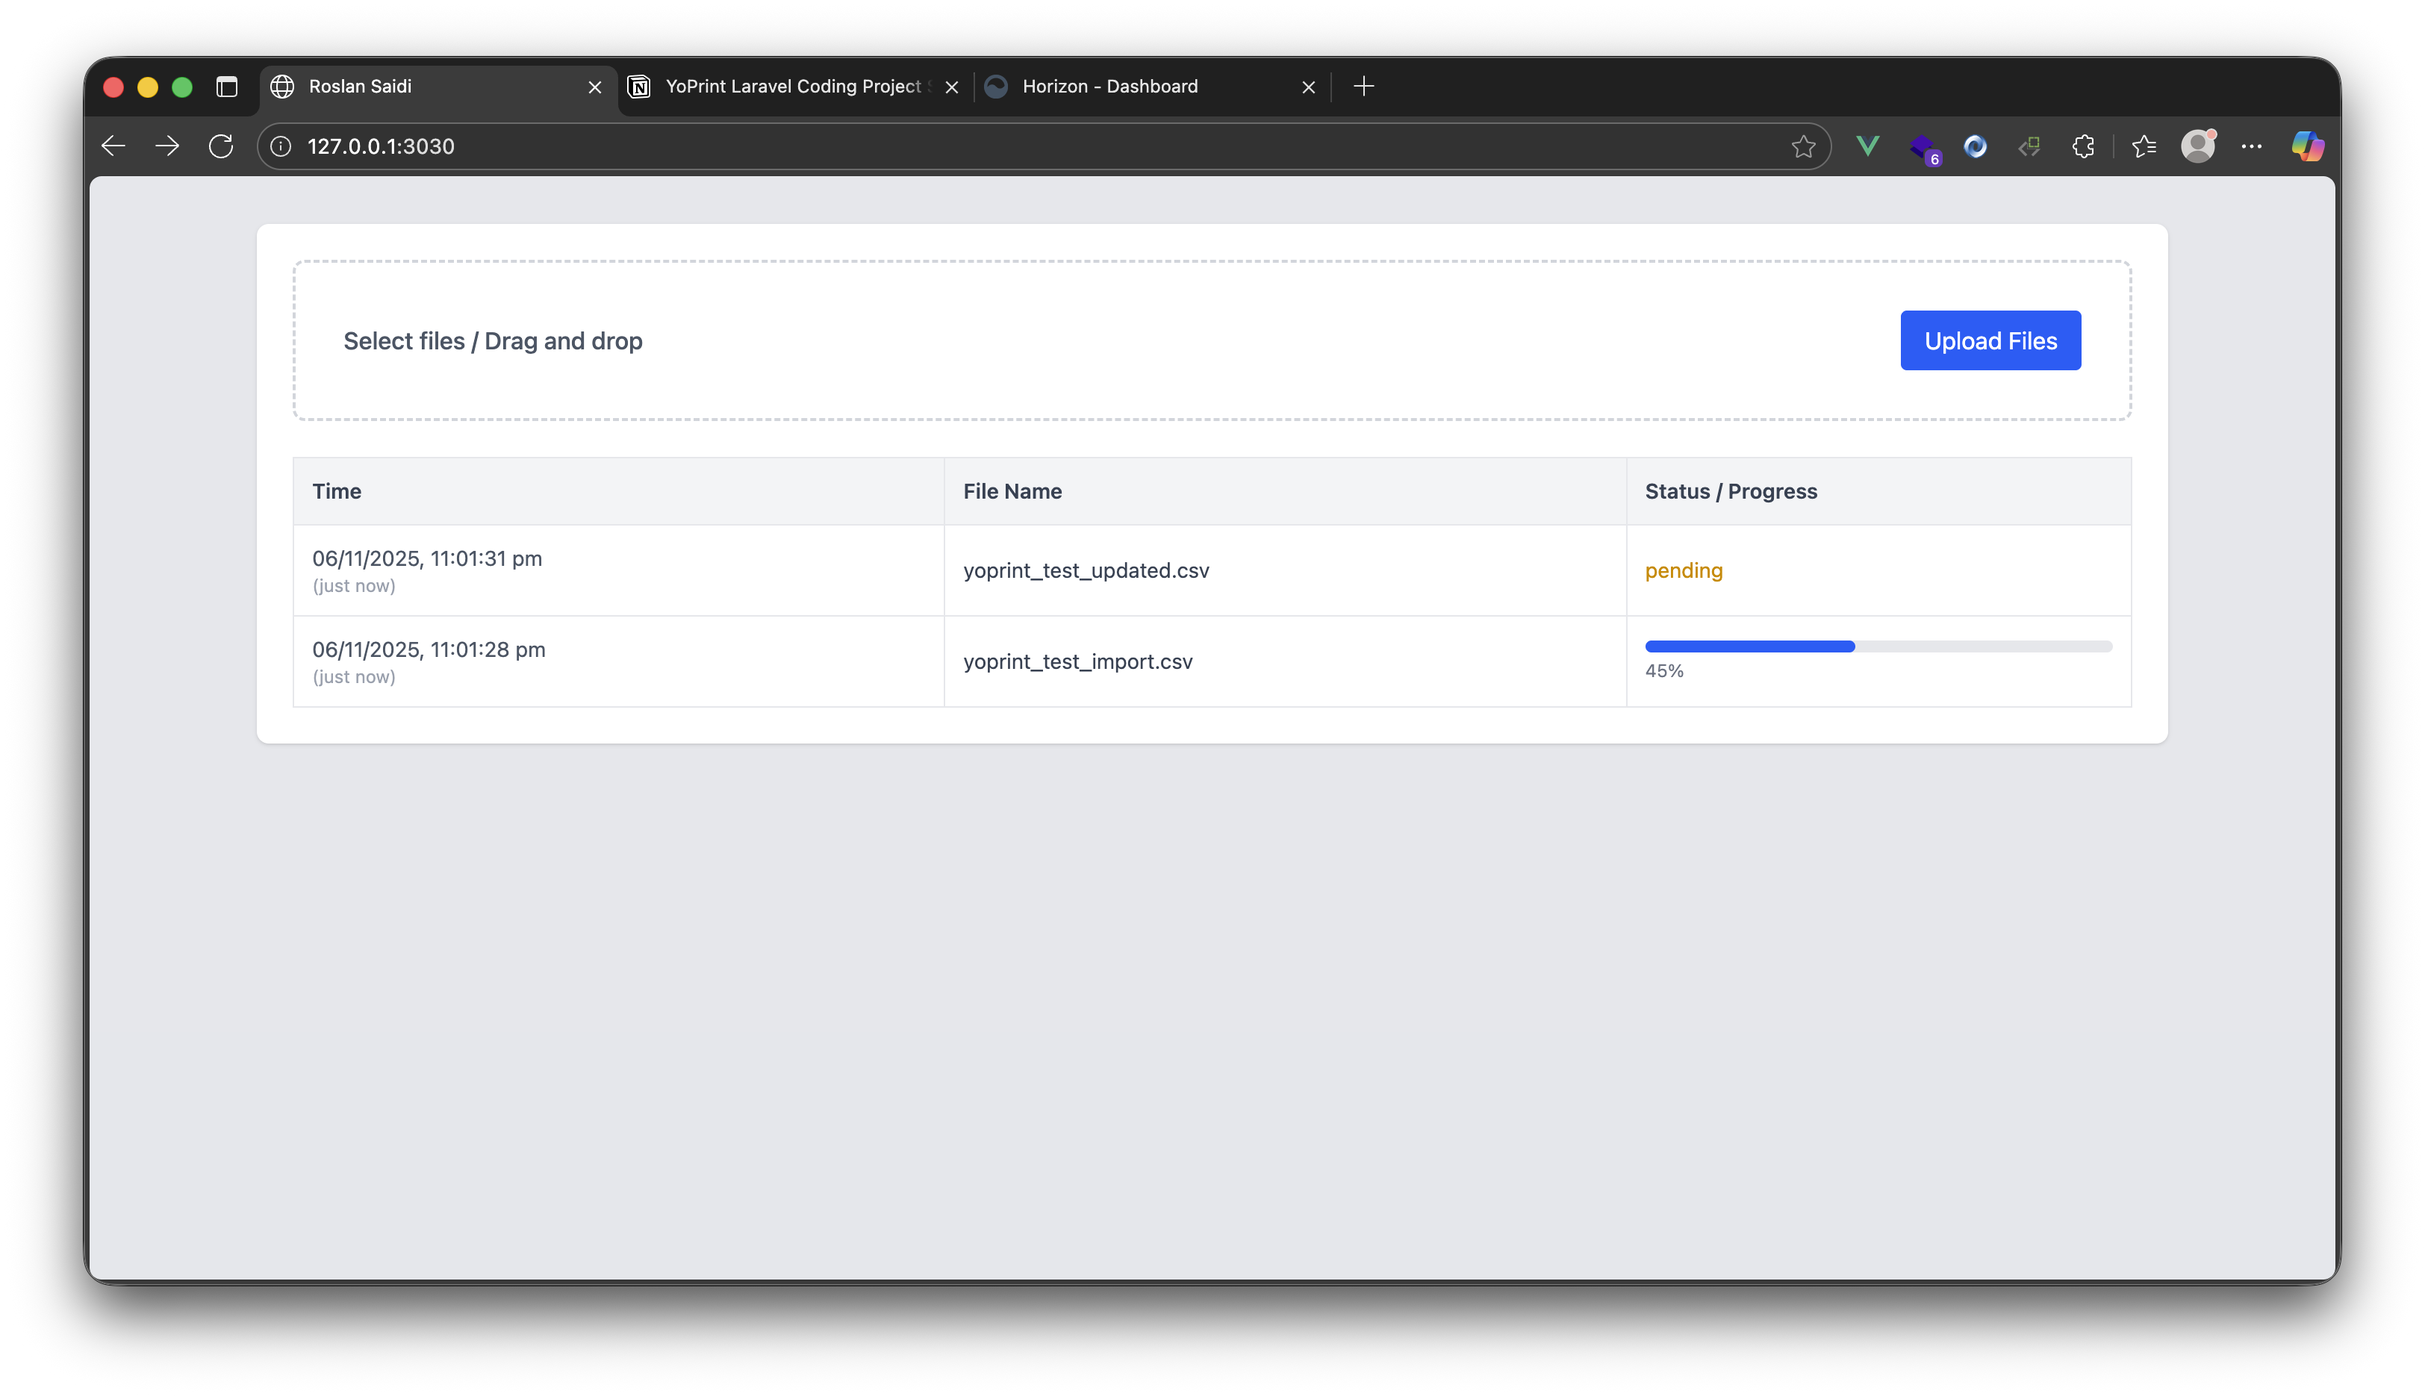
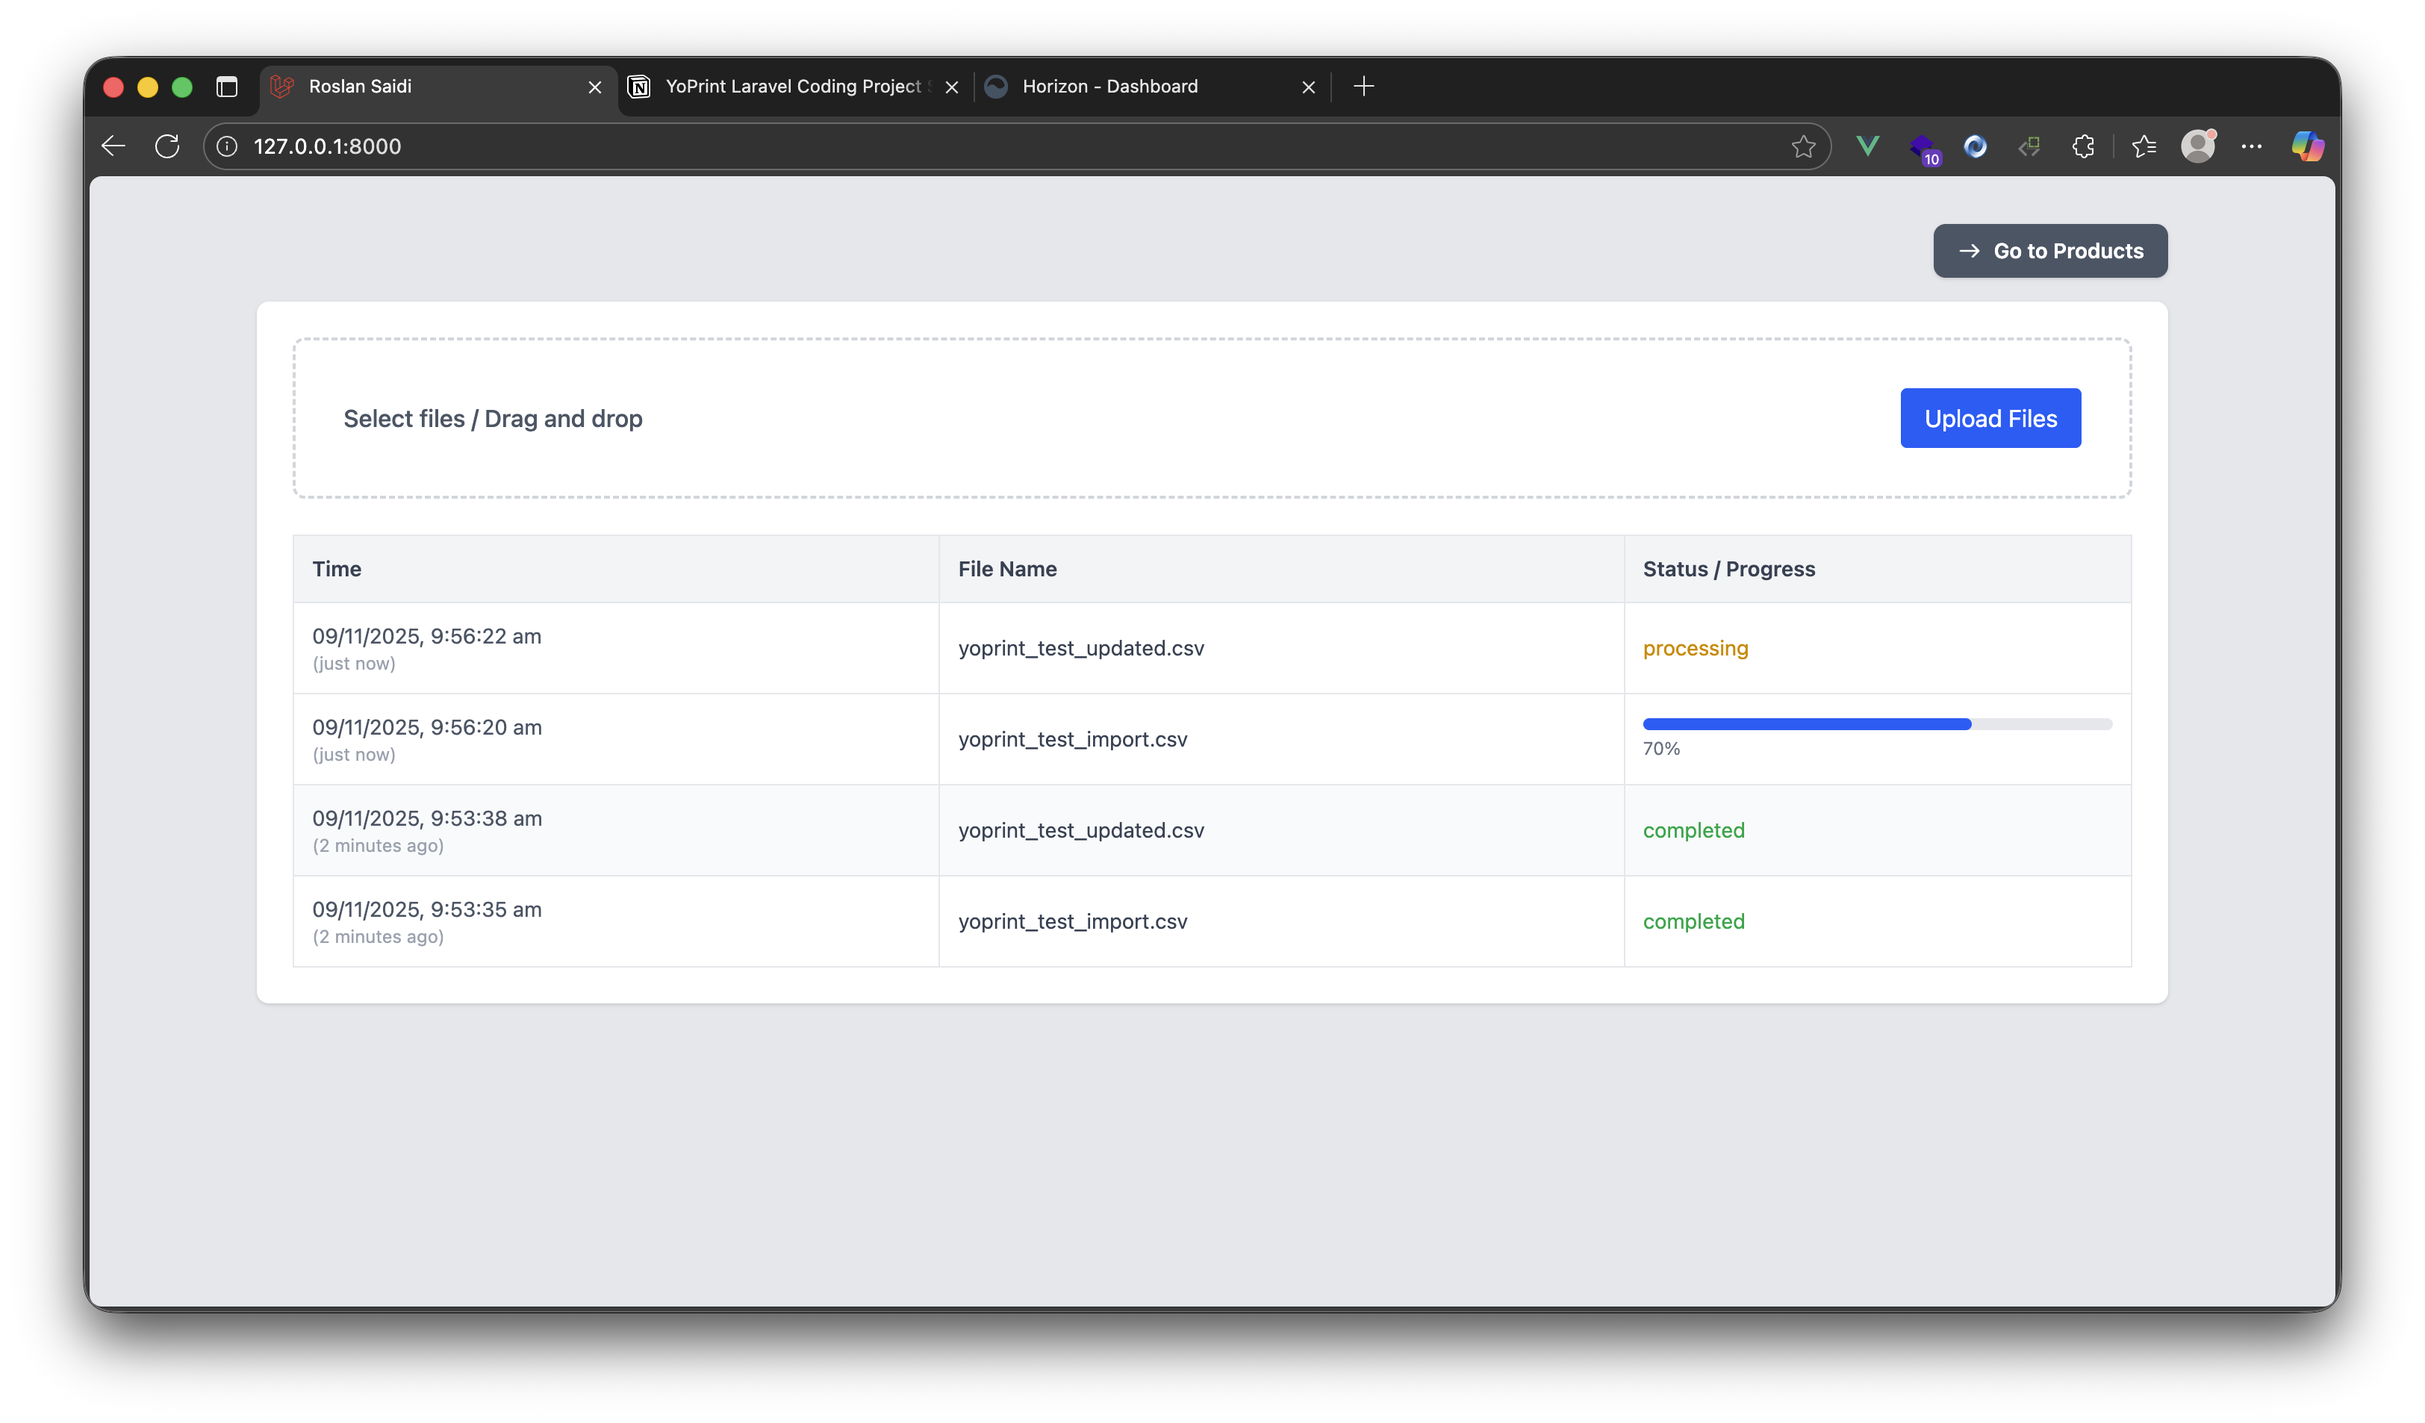
Add clear products and update image docs

diff --git a/resources/js/components/Products.vue b/resources/js/components/Products.vue
@@ -1,18 +1,34 @@
 <template>
       <div class="bg-white rounded-lg shadow p-6">
+            <!-- Header -->
             <div class="flex items-center justify-between mb-4">
                   <h2 class="text-lg font-semibold text-gray-800">Product List</h2>
-                  <div class="flex gap-3">
-                        <input v-model="store.search" @keyup.enter="store.fetch(1)" type="text"
+
+                  <div class="flex gap-3 items-center">
+                        <input v-model="productStore.search" @keyup.enter="productStore.fetch(1)" type="text"
                               placeholder="Search product..."
                               class="border border-gray-200 rounded px-3 py-1.5 text-sm focus:ring focus:ring-blue-200 focus:outline-none" />
-                        <button @click="store.fetch(1)"
+
+                        <button @click="productStore.fetch(1)"
                               class="bg-blue-600 text-white text-sm px-3 py-1.5 rounded hover:bg-blue-700">
                               Search
+                        </button>
+
+                        <button @click="clearSearch" :disabled="productStore.loading || !productStore.search"
+                              class="bg-gray-200 text-gray-700 text-sm px-3 py-1.5 rounded hover:bg-gray-300 disabled:opacity-50">
+                              Clear Search
+                        </button>
+
+                        <span class="h-6 border-l border-gray-300 mx-2"></span>
+
+                        <button @click="openModal" :disabled="productStore.loading || productStore.list.length === 0"
+                              class="bg-red-600 text-white text-sm px-3 py-1.5 rounded hover:bg-red-700 disabled:opacity-50">
+                              Clear All Products
                         </button>
                   </div>
             </div>
 
+            <!-- Table -->
             <div class="overflow-x-auto">
                   <table class="min-w-full border-collapse border border-gray-200 text-sm">
                         <thead class="bg-gray-100">
@@ -38,15 +54,15 @@
                               </tr>
                         </thead>
                         <tbody>
-                              <tr v-for="(item, i) in store.list" :key="item.id" class="hover:bg-gray-50">
+                              <tr v-for="(item, i) in productStore.list" :key="item.id" class="hover:bg-gray-50">
                                     <td class="border border-gray-200 p-3 text-sm text-gray-600">
-                                          {{ i + 1 + (store.pagination.current_page - 1) * store.pagination.per_page }}
+                                          {{ i + 1 + (productStore.pagination.current_page - 1) *
+                                          productStore.pagination.per_page }}
                                     </td>
                                     <td class="border border-gray-200 p-3 text-sm text-gray-600">{{ item.unique_key }}
                                     </td>
-                                    <td class="border border-gray-200 p-3 text-sm text-gray-600">
-                                          {{ decodeHtml(item.title) }}
-                                    </td>
+                                    <td class="border border-gray-200 p-3 text-sm text-gray-600">{{
+                                          decodeHtml(item.title) }}</td>
                                     <td class="border border-gray-200 p-3 text-sm text-gray-600">{{ item.color_name ||
                                           '-' }}</td>
                                     <td class="border border-gray-200 p-3 text-sm text-gray-600">{{ item.size || '-' }}
@@ -56,7 +72,7 @@
                                     </td>
                               </tr>
 
-                              <tr v-if="!store.loading && store.list.length === 0">
+                              <tr v-if="!productStore.loading && productStore.list.length === 0">
                                     <td colspan="6" class="text-center p-4 text-gray-400">No data found</td>
                               </tr>
                         </tbody>
@@ -64,37 +80,73 @@
             </div>
 
             <div class="flex items-center justify-between mt-4 text-sm text-gray-600">
-                  <div>Showing {{ store.pagination.current_page }} / {{ store.pagination.last_page }} pages</div>
+                  <div>Showing {{ productStore.pagination.current_page }} / {{ productStore.pagination.last_page }}
+                        pages</div>
                   <div class="flex gap-1">
-                        <button @click="store.fetch(store.pagination.current_page - 1)"
-                              :disabled="store.pagination.current_page <= 1 || store.loading"
+                        <button @click="productStore.fetch(productStore.pagination.current_page - 1)"
+                              :disabled="productStore.pagination.current_page <= 1 || productStore.loading"
                               class="px-3 py-1 border border-gray-200 rounded disabled:opacity-40 hover:bg-gray-100">
                               Prev
                         </button>
-                        <button @click="store.fetch(store.pagination.current_page + 1)"
-                              :disabled="store.pagination.current_page >= store.pagination.last_page || store.loading"
+                        <button @click="productStore.fetch(productStore.pagination.current_page + 1)"
+                              :disabled="productStore.pagination.current_page >= productStore.pagination.last_page || productStore.loading"
                               class="px-3 py-1 border border-gray-200 rounded disabled:opacity-40 hover:bg-gray-100">
                               Next
                         </button>
+                  </div>
+            </div>
+
+            <div v-if="showModal"
+                  class="fixed inset-0 backdrop-blur-sm bg-white/30 flex items-center justify-center z-50">
+                  <div class="bg-white border border-gray-200 rounded-lg shadow-lg w-96 p-6">
+                        <h3 class="text-lg font-semibold text-gray-800 mb-3">Confirm Deletion</h3>
+                        <p class="text-gray-600 text-sm mb-6">
+                              Are you sure you want to <span class="font-semibold text-red-600">delete all
+                                    products</span>?
+                              This action cannot be undone.
+                        </p>
+                        <div class="flex justify-end gap-3">
+                              <button @click="closeModal"
+                                    class="px-4 py-2 text-sm bg-gray-200 rounded hover:bg-gray-300">
+                                    Cancel
+                              </button>
+                              <button @click="confirmClear" :disabled="productStore.loading"
+                                    class="px-4 py-2 text-sm bg-red-600 text-white rounded hover:bg-red-700 disabled:opacity-50">
+                                    {{ productStore.loading ? 'Deleting...' : 'Confirm' }}
+                              </button>
+                        </div>
                   </div>
             </div>
       </div>
 </template>
 
 <script setup>
-import { onMounted } from 'vue'
-import { useProductStore } from '@/stores/product'
+import { ref, onMounted } from "vue";
+import { useProductStore } from "@/stores/product";
 
-const store = useProductStore()
+const productStore = useProductStore();
+const showModal = ref(false);
 
-onMounted(() => store.fetch())
+onMounted(() => productStore.fetch());
 
-const formatPrice = (p) => (p != null ? `$${Number(p).toFixed(2)}` : '-')
+const openModal = () => (showModal.value = true);
+const closeModal = () => (showModal.value = false);
 
+const clearSearch = () => {
+      productStore.search = "";
+      productStore.fetch(1);
+};
+
+const confirmClear = async () => {
+      await productStore.clearAll();
+      closeModal();
+};
+
+const formatPrice = (p) => (p != null ? `$${Number(p).toFixed(2)}` : "-");
 const decodeHtml = (text) => {
-      if (!text) return ''
-      const el = document.createElement('textarea')
-      el.innerHTML = text
-      return el.value
-}
+      if (!text) return "";
+      const el = document.createElement("textarea");
+      el.innerHTML = text;
+      return el.value;
+};
 </script>

diff --git a/resources/js/stores/product.js b/resources/js/stores/product.js
@@ -13,7 +13,6 @@ export const useProductStore = defineStore("products", {
         search: "",
         loading: false,
     }),
-
     actions: {
         async fetch(page = 1) {
             this.loading = true;
@@ -25,10 +24,8 @@ export const useProductStore = defineStore("products", {
                         search: this.search || "",
                     },
                 });
-
                 const response = res.data;
                 this.list = response.data || [];
-
                 const meta = response.meta || {};
                 this.pagination = {
                     current_page: meta.current_page ?? page,
@@ -38,6 +35,16 @@ export const useProductStore = defineStore("products", {
                         (response.data ? response.data.length : 0),
                     last_page: meta.last_page ?? 1,
                 };
+            } finally {
+                this.loading = false;
+            }
+        },
+        async clearAll() {
+            this.loading = true;
+            try {
+                await api.delete("/products/clear");
+                this.list = [];
+                this.pagination.total = 0;
             } finally {
                 this.loading = false;
             }

diff --git a/resources/js/components/Upload.vue b/resources/js/components/Upload.vue
@@ -92,8 +92,8 @@ import { storeToRefs } from "pinia";
 const isDragging = ref(false);
 const dragCount = ref(0);
 const fileInput = ref(null);
-const store = useUploadStore();
-const { list: uploads, progress } = storeToRefs(store);
+const uploadStore = useUploadStore();
+const { list: uploads, progress } = storeToRefs(uploadStore);
 const error = ref("");
 const loading = ref(false);
 
@@ -155,7 +155,7 @@ const handleFile = async (file) => {
             return;
       }
       try {
-            await store.uploadFile(file);
+            await uploadStore.uploadFile(file);
       } catch (err) {
             console.error(err);
             error.value = "Upload failed. Please try again.";
@@ -177,9 +177,9 @@ const timeAgo = (datetime) => {
 };
 
 onMounted(async () => {
-      await store.fetchUploads();
-      await store.hydrateProgress();
-      store.ensureRealtime();
+      await uploadStore.fetchUploads();
+      await uploadStore.hydrateProgress();
+      uploadStore.ensureRealtime();
 });
 </script>
 

diff --git a/resources/views/uploads.blade.php b/resources/views/uploads.blade.php
@@ -1,5 +1,16 @@
 @extends('layouts.app')
 
 @section('content')
+    <div class="flex justify-end mb-4">
+        <a href="/products"
+           class="inline-flex items-center px-4 py-2 bg-gray-600 hover:bg-gray-700 text-white text-sm font-semibold rounded-lg shadow transition duration-150">
+            <svg xmlns="http://www.w3.org/2000/svg" class="h-4 w-4 mr-2" fill="none" viewBox="0 0 24 24"
+                 stroke="currentColor" stroke-width="2">
+                <path stroke-linecap="round" stroke-linejoin="round" d="M3 12h18m-6 6l6-6-6-6" />
+            </svg>
+            Go to Products
+        </a>
+    </div>
+
     <upload></upload>
 @endsection

diff --git a/resources/views/products.blade.php b/resources/views/products.blade.php
@@ -1,5 +1,16 @@
 @extends('layouts.app')
 
 @section('content')
+    <div class="flex justify-start mb-4">
+        <a href="/"
+           class="inline-flex items-center px-4 py-2 bg-gray-100 hover:bg-gray-200 text-gray-700 text-sm font-semibold rounded-lg shadow transition duration-150">
+            <svg xmlns="http://www.w3.org/2000/svg" class="h-4 w-4 mr-2" fill="none" viewBox="0 0 24 24"
+                 stroke="currentColor" stroke-width="2">
+                <path stroke-linecap="round" stroke-linejoin="round" d="M15 19l-7-7 7-7" />
+            </svg>
+            Back to Upload
+        </a>
+    </div>
+
     <products></products>
 @endsection

diff --git a/app/Http/Controllers/ProductController.php b/app/Http/Controllers/ProductController.php
@@ -1,7 +1,9 @@
 <?php
+
 namespace App\Http\Controllers;
 
 use Illuminate\Http\Request;
+use Illuminate\Http\JsonResponse;
 use App\Http\Resources\ProductResource;
 use App\Contracts\ProductRepositoryContract;
 
@@ -17,5 +19,14 @@ class ProductController extends Controller
         $result = $this->products->paginate($search, $perPage);
 
         return ProductResource::collection($result);
+    }
+
+    public function clearAll(): JsonResponse
+    {
+        $this->products->clearAll();
+
+        return response()->json([
+            'message' => 'All products have been deleted.'
+       ]);
     }
 }

diff --git a/routes/api.php b/routes/api.php
@@ -7,3 +7,4 @@ Route::post('/uploads', [UploadController::class, 'store']);
 Route::get('/uploads/{id}/progress', [UploadController::class, 'progress']);
 
 Route::get('/products', [ProductController::class, 'index']);
+Route::delete('/products/clear', [ProductController::class, 'clearAll']);

diff --git a/app/Contracts/ProductRepositoryContract.php b/app/Contracts/ProductRepositoryContract.php
@@ -8,4 +8,5 @@ interface ProductRepositoryContract
 {
     public function upsert(Collection $data): void;
     public function paginate(?string $search, int $perPage = 10): LengthAwarePaginator;
+    public function clearAll(): void;
 }

diff --git a/app/Repositories/ProductRepository.php b/app/Repositories/ProductRepository.php
@@ -71,4 +71,9 @@ class ProductRepository implements ProductRepositoryContract
             throw $e;
         }
     }
+
+    public function clearAll(): void
+    {
+        $this->model->newQuery()->delete();
+    }
 }
